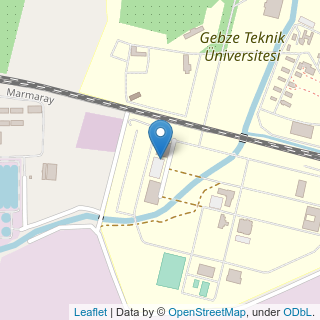
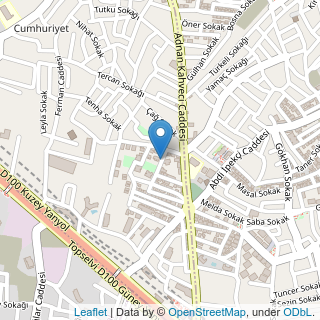
Batteries Updated

diff --git a/Map/map.html b/Map/map.html
@@ -23,7 +23,7 @@
             <meta name="viewport" content="width=device-width,
                 initial-scale=1.0, maximum-scale=1.0, user-scalable=no" />
             <style>
-                #map_09416d09ec6041b2bc05c5457bbe9db7 {
+                #map_f69372314e584a82bc35b4fa31a4fae5 {
                     position: relative;
                     width: 100.0%;
                     height: 100.0%;
@@ -35,15 +35,15 @@
 </head>
 <body>    
     
-            <div class="folium-map" id="map_09416d09ec6041b2bc05c5457bbe9db7" ></div>
+            <div class="folium-map" id="map_f69372314e584a82bc35b4fa31a4fae5" ></div>
         
 </body>
 <script>    
     
-            var map_09416d09ec6041b2bc05c5457bbe9db7 = L.map(
-                "map_09416d09ec6041b2bc05c5457bbe9db7",
+            var map_f69372314e584a82bc35b4fa31a4fae5 = L.map(
+                "map_f69372314e584a82bc35b4fa31a4fae5",
                 {
-                    center: [40.807712, 29.355991],
+                    center: [40.9016, 29.2258],
                     crs: L.CRS.EPSG3857,
                     zoom: 15,
                     zoomControl: false,
@@ -55,15 +55,15 @@
 
         
     
-            var tile_layer_e9c1df73835643e78b60817dc5950473 = L.tileLayer(
+            var tile_layer_ce9c52b03cd944fdb1e25b894654a2bd = L.tileLayer(
                 "https://{s}.tile.openstreetmap.org/{z}/{x}/{y}.png",
                 {"attribution": "Data by \u0026copy; \u003ca href=\"http://openstreetmap.org\"\u003eOpenStreetMap\u003c/a\u003e, under \u003ca href=\"http://www.openstreetmap.org/copyright\"\u003eODbL\u003c/a\u003e.", "detectRetina": false, "maxNativeZoom": 18, "maxZoom": 18, "minZoom": 0, "noWrap": false, "opacity": 1, "subdomains": "abc", "tms": false}
-            ).addTo(map_09416d09ec6041b2bc05c5457bbe9db7);
+            ).addTo(map_f69372314e584a82bc35b4fa31a4fae5);
         
     
-            var marker_53c6319e439e4803a61cd4826a0d2908 = L.marker(
-                [40.807712, 29.355991],
+            var marker_5a5beafca6314816988ad98edee2c792 = L.marker(
+                [40.9016, 29.2258],
                 {}
-            ).addTo(map_09416d09ec6041b2bc05c5457bbe9db7);
+            ).addTo(map_f69372314e584a82bc35b4fa31a4fae5);
         
 </script>

diff --git a/main.py b/main.py
@@ -10,7 +10,7 @@ class App:
         self.window = Tk()
         self.screen_width = self.window.winfo_screenwidth()
         self.screen_height = self.window.winfo_screenheight()
-        self.window.geometry("1000x650")  # Screen Size
+        self.window.geometry("705x650")  # Screen Size
         self.window.resizable(0, 0)
         self.window.title("ALFA-ETA") # Pencere ismi
         self.window.iconname("ALFA-ETA")
@@ -20,7 +20,7 @@ class App:
         self.speedometer = Speedometer(self)
         self.mainBattery = Battery(self,"Main",0,525)
         x = 80 ; y = 130
-        self.allBatteries = [[Battery(self,(i*8+j), (x*j)+5, (y*i)+5) for j in range(8)] for i in range(4)]
+        self.allBatteries = [[Battery(self,(i*5+j), (x*j)+5, (y*i)+5) for j in range(5)] for i in range(4)]
         self.signals=Signals(self)
         self.location=Location(self)
 class Signals:
@@ -137,7 +137,7 @@ class Location:
         self.location = [40.9016, 29.2258]  # x,y
         self.locationCanvas = Canvas(obj.window, height=50, width=200,
                                      background="white", highlightthickness=1)
-        self.locationCanvas.place(x=400,y=550)
+        self.locationCanvas.place(x=400,y=300)
         self._X_ = self.locationCanvas.create_text(
             20,15, fill="black", text="X: ", font=('Helvetica 16 bold'))
         self._Y_ = self.locationCanvas.create_text(
@@ -147,10 +147,10 @@ class Location:
         self._Y_Loc = self.locationCanvas.create_text(
             40, 40, fill="black", text=str(self.location[1]), font=('Helvetica 14 roman'), anchor=W)
         self.button = Button(obj.window, text='Show On Map !', bd='1', command=lambda:self.updateLoc(obj))
-        self.button.place(x=400, y=600)
+        self.button.place(x=400, y=350)
         self.imageCanvas = Canvas(obj.window, height=300, width=300,
                                      background="red", highlightthickness=1)
-        self.imageCanvas.place(x=650, y=0)
+        self.imageCanvas.place(x=400, y=0)
     def updateLoc(self,obj):
         mapLoc = folium.Map(location=self.location,
                             tiles="OpenStreetMap", zoom_start=15, zoom_control=False)
@@ -203,16 +203,16 @@ def changeSpeed(obj):
         updateSpeed(obj, i)
 def changeBattery(obj):
     for i in range(0, 80):
-        updateBattery(obj.allBatteries[0][5], i)
+        updateBattery(obj.allBatteries[0][4], i)
         obj.window.update()
     for i in range(80, 40, -1):
-        updateBattery(obj.allBatteries[0][5], i)
+        updateBattery(obj.allBatteries[0][4], i)
         obj.window.update()
     for i in range(40, 100):
-        updateBattery(obj.allBatteries[0][5], i)
+        updateBattery(obj.allBatteries[0][4], i)
         obj.window.update()
     for i in range(100, 0, -1):
-        updateBattery(obj.allBatteries[0][5], i)
+        updateBattery(obj.allBatteries[0][4], i)
         obj.window.update()
 def changeLoc(obj):
     obj.location.changeLoc(obj, [40.807712, 29.355991])
